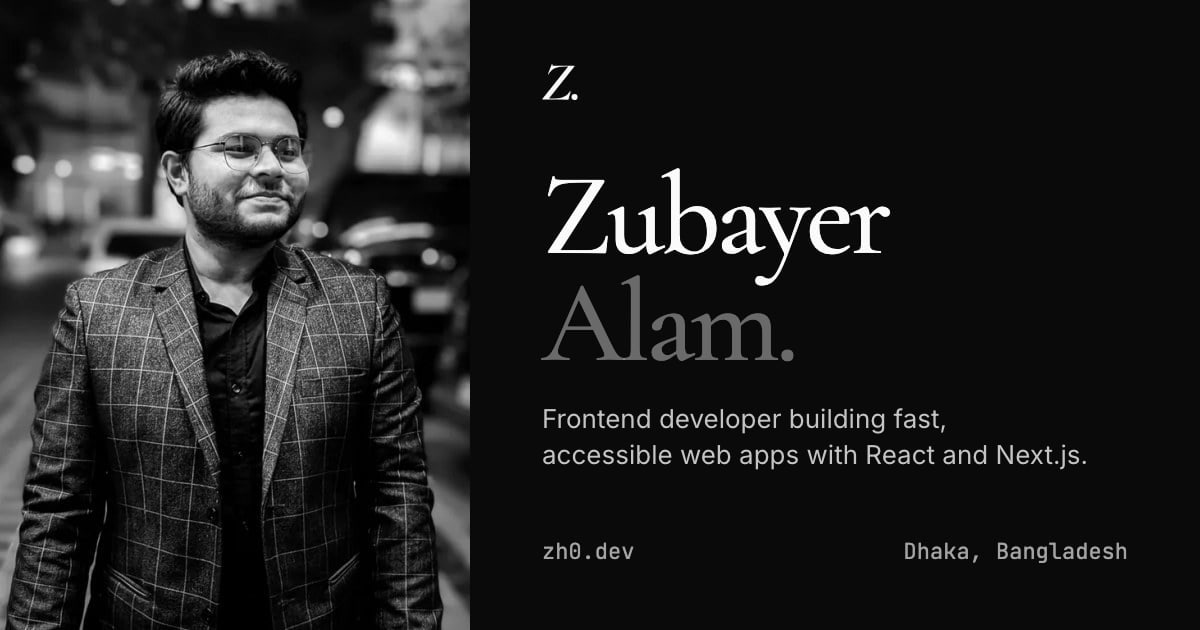
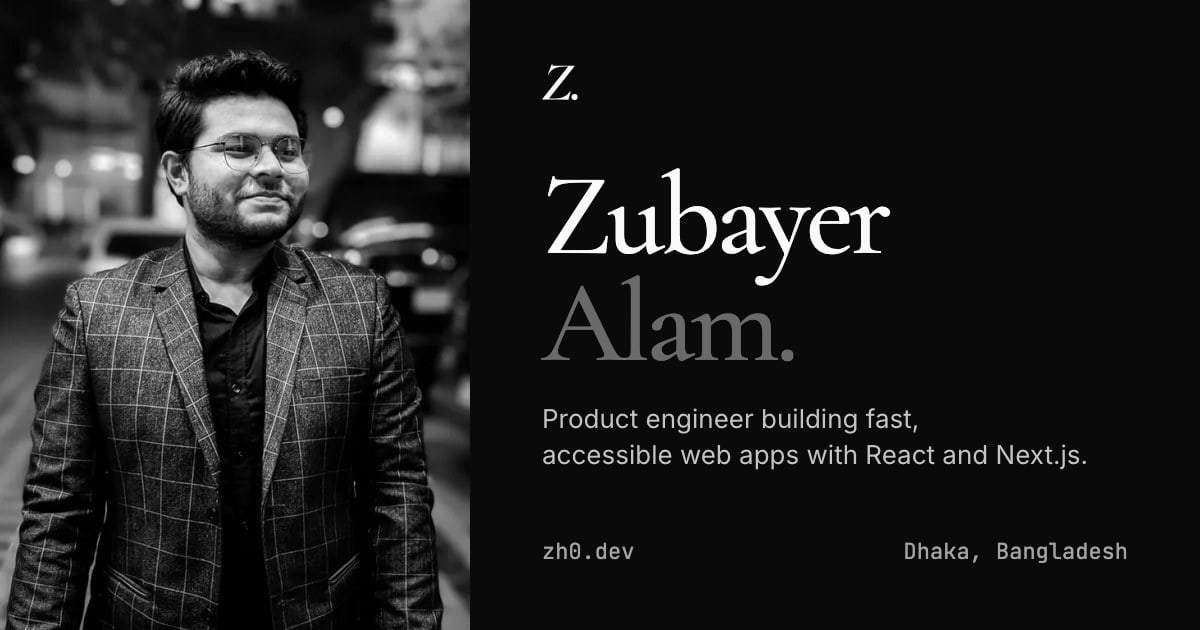
feat: present role as Product Engineer in hero, meta, JSON-LD and OG image

Changed region(s): [[0.4625, 0.6333, 0.8017, 0.6937]]

diff --git a/index.html b/index.html
@@ -7,7 +7,7 @@
     <link rel="icon" href="/favicon.svg" type="image/svg+xml" />
     <link rel="apple-touch-icon" href="/apple-touch-icon.png" />
     <link rel="manifest" href="/site.webmanifest" />
-    <title>Zubayer Alam — Frontend Developer</title>
+    <title>Zubayer Alam — Product Engineer</title>
     <script>
       // Apply the saved/system theme before first paint to avoid a light flash in dark mode.
       try {
@@ -23,7 +23,7 @@
       rel="stylesheet"
       href="https://fonts.googleapis.com/css2?family=Cormorant+Garamond:ital,wght@0,300;0,400;0,500;1,300;1,400;1,500&family=Inter:wght@400;500;600&family=JetBrains+Mono:wght@400;500&display=swap"
     />
-    <meta name="description" content="Zubayer Alam is a frontend developer in Dhaka and co-founder of Devfik, building fast, accessible web apps with React, Next.js and TypeScript." />
+    <meta name="description" content="Zubayer Alam is a product engineer in Dhaka and co-founder of Devfik, building fast, accessible web apps with React, Next.js and TypeScript." />
     <meta name="author" content="Zubayer Alam" />
     <link rel="canonical" href="https://www.zh0.dev/" />
     <link rel="alternate" type="application/rss+xml" title="Zubayer Alam — Writing" href="/rss.xml" />
@@ -34,12 +34,12 @@
     <meta property="og:site_name" content="Zubayer Alam" />
     <meta property="og:locale" content="en_US" />
     <meta property="og:url" content="https://www.zh0.dev/" />
-    <meta property="og:title" content="Zubayer Alam — Frontend Developer" />
-    <meta property="og:description" content="Frontend developer building fast, accessible web apps with React and Next.js." />
+    <meta property="og:title" content="Zubayer Alam — Product Engineer" />
+    <meta property="og:description" content="Product engineer building fast, accessible web apps with React and Next.js." />
     <meta property="og:image" content="https://www.zh0.dev/og-image.jpg" />
     <meta property="og:image:width" content="1200" />
     <meta property="og:image:height" content="630" />
-    <meta property="og:image:alt" content="Zubayer Alam, frontend developer, Dhaka" />
+    <meta property="og:image:alt" content="Zubayer Alam, product engineer, Dhaka" />
 
     <meta name="twitter:card" content="summary_large_image" />
     <meta name="twitter:site" content="@zubayerhimel0" />
@@ -52,7 +52,7 @@
         "@type": "Person",
         "name": "Zubayer Alam",
         "alternateName": "Md. Zubayer Alam",
-        "jobTitle": "Frontend Developer",
+        "jobTitle": "Product Engineer",
         "worksFor": [
           { "@type": "Organization", "name": "WPP Production" },
           { "@type": "Organization", "name": "Devfik", "url": "https://devfik.com" }

diff --git a/src/pages/Index.tsx b/src/pages/Index.tsx
@@ -11,7 +11,7 @@ const Index = () => {
     <div className="bg-background text-foreground min-h-screen">
       <Seo
         path="/"
-        description="Zubayer Alam is a frontend developer in Dhaka and co-founder of Devfik, building fast, accessible web apps with React, Next.js and TypeScript."
+        description="Zubayer Alam is a product engineer in Dhaka and co-founder of Devfik, building fast, accessible web apps with React, Next.js and TypeScript."
       />
       <HeroIntro />
       <ExperienceSection />

diff --git a/src/components/HeroIntro.tsx b/src/components/HeroIntro.tsx
@@ -70,9 +70,7 @@ const HeroIntro = () => {
                 className="flex items-center gap-3"
               >
                 <span className="h-px w-8 bg-primary"></span>
-                <p className="font-body text-sm text-primary tracking-widest uppercase font-medium">
-                  Frontend developer
-                </p>
+                <p className="font-body text-sm text-primary tracking-widest uppercase font-medium">Product engineer</p>
               </m.div>
 
               <m.h1

diff --git a/src/components/Seo.tsx b/src/components/Seo.tsx
@@ -42,7 +42,7 @@ const meta = (key: "name" | "property", name: string, value: string | undefined)
 
 const Seo = ({ title, description, path, type = "website", publishedTime, noindex }: SeoProps) => {
   useEffect(() => {
-    const fullTitle = title ? `${title} — ${SITE_NAME}` : `${SITE_NAME} — Frontend Developer`;
+    const fullTitle = title ? `${title} — ${SITE_NAME}` : `${SITE_NAME} — Product Engineer`;
     const url = `${SITE_URL}${path}`;
 
     document.title = fullTitle;
